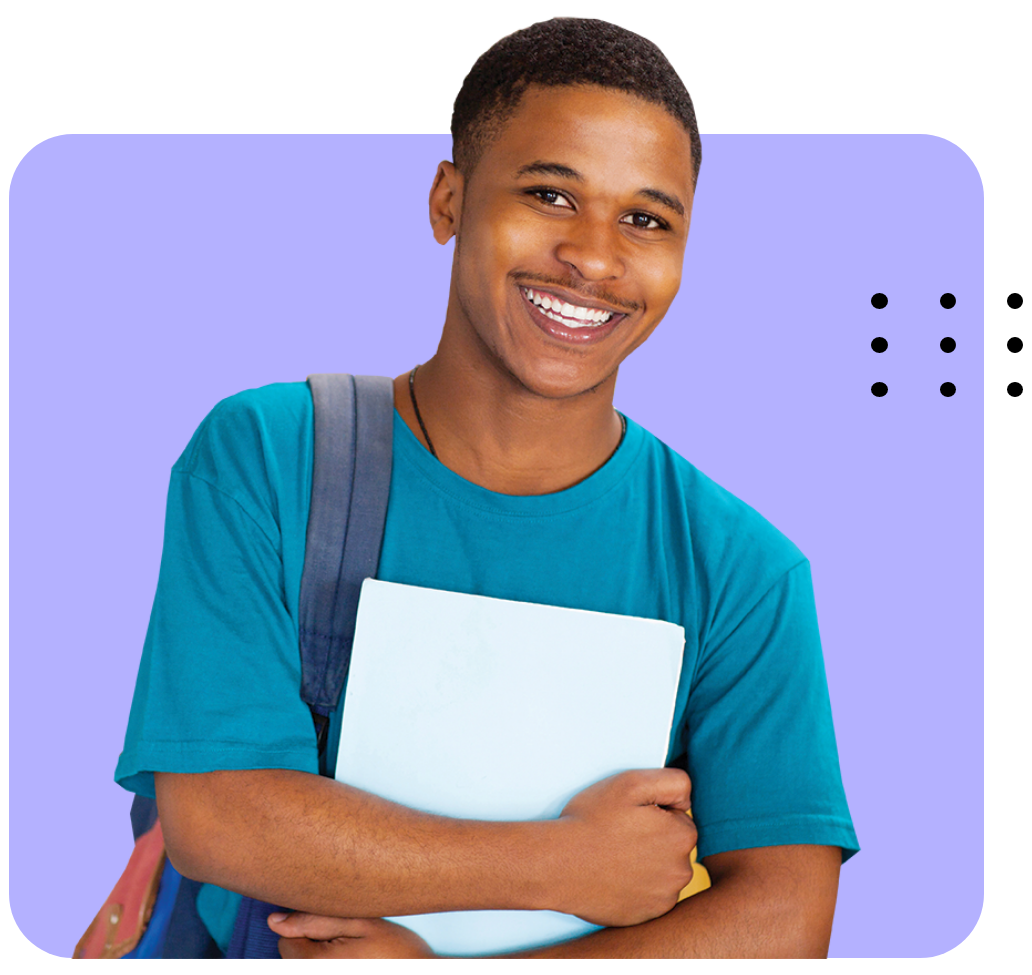
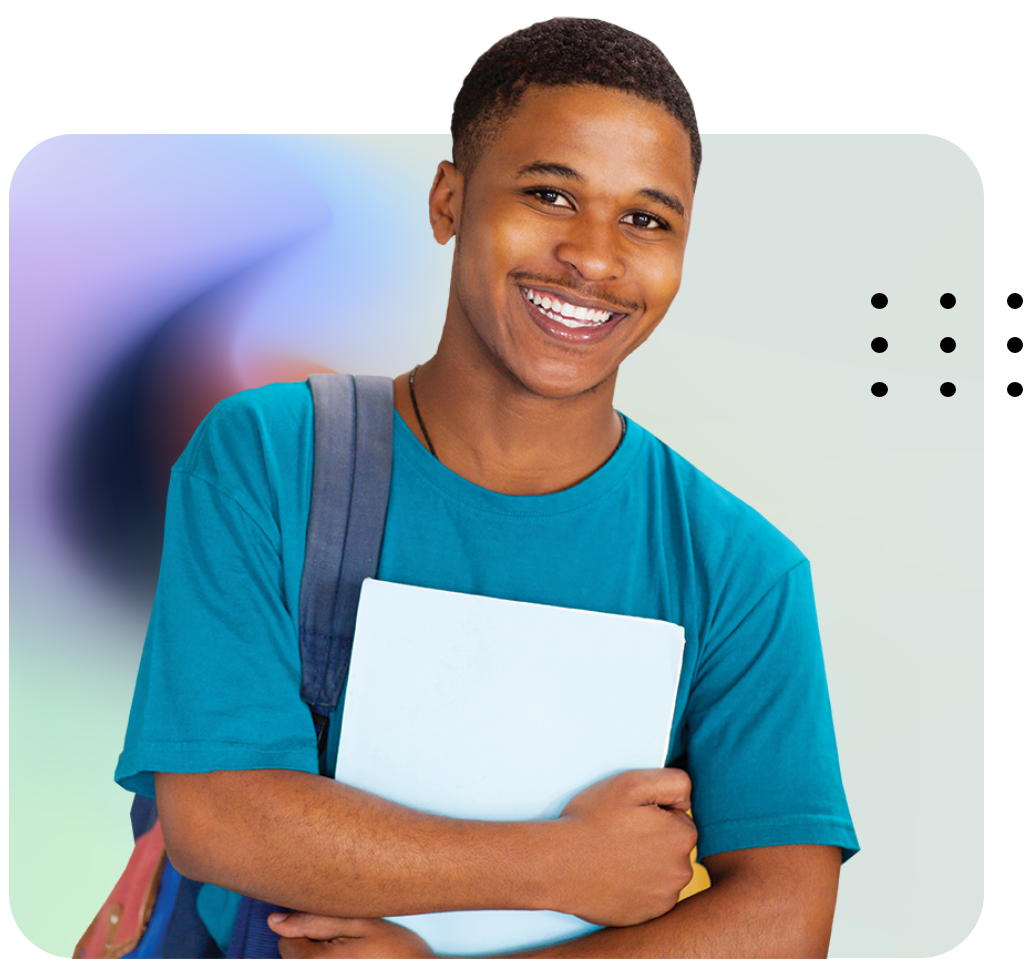
Props

diff --git a/src/TrendingCourses.js b/src/TrendingCourses.js
@@ -1,47 +1,25 @@
 import React from 'react';
 import './App.css';
+import CourseCard from './CourseCard';
 import editImage from './video-editing.jpg';
-
-
+import anotherImage from './outerspace.png'; // Let's say you have another image for demonstration purposes.
 
 const TrendingCourses = () => {
   return (
-    <div class="trending-section" style={{textAlign: 'center', borderRadius:20, paddingTop: 60, paddingLeft: 60, paddingRight: 60, paddingBottom: 60}}>
-        <h1 className="header" style={{textAlign: 'center',paddingBottom: 20, fontWeight:'600', fontSize: '18px', color:'#635bff' }}  >TRENDING</h1>
+    <div className="trending-section" style={{ textAlign: 'center', borderRadius: 20, padding: 60 }}>
+      <h1 className="header" style={{ textAlign: 'center', paddingBottom: 20, fontWeight: '600', fontSize: '18px', color: '#635bff' }}>TRENDING</h1>
+      
       <div className="header-container">
-        <h1 className="header" style={{paddingBottom: 20, paddingLeft: 100, paddingRight: 100, textAlign: 'center', fontWeight:'600', fontSize: '40px', color: 'black'}}  >Meet the crew of people who create with passion and love for modern trends.</h1>
+        <h1 className="header" style={{ paddingBottom: 20, paddingLeft: 100, paddingRight: 100, textAlign: 'center', fontWeight: '600', fontSize: '40px', color: 'black' }}>Meet the crew of people who create with passion and love for modern trends.</h1>
       </div>
 
       <div className="card-container-trending">
-        <div className="card">
-        <img class="course-img" src={editImage}></img>
-        <div style={{padding: '20px', textAlign: 'left'}}>
-        <h4 style={{fontSize: 30, fontWeight:600, margin:0, paddingBottom:30}}>Product Design</h4>
-
-        <h5 style={{paddingTop: '10px', paddingBottom: '20px', fontWeight:600, color:'#635bff', margin:0, fontSize:20 }}>Text here →</h5>
-
-        </div>
-        </div>
-        <div className="card">
-        <img class="course-img" src={editImage}></img>
-        <div style={{padding: '20px', textAlign: 'left'}}>
-        <h4 style={{fontWeight:600, margin:0, paddingBottom:30}}>Computer Science</h4>
-        
-        <h5 style={{paddingTop: '10px', paddingBottom: '20px', fontWeight:600, color:'#635bff', margin:0, fontSize:20 }}>Text here →</h5>
-
-        </div>
-        </div>
-        <div className="card">
-        <img class="course-img" src={editImage}></img>
-        <div style={{padding: '20px', textAlign: 'left'}}>
-        <h4 style={{fontWeight:600, margin:0, paddingBottom:30}}>Product Design</h4>
-        
-        <h5 style={{paddingTop: '10px', paddingBottom: '20px', fontWeight:600, color:'#635bff', margin:0, fontSize:20 }}>Text here →</h5>
-
-        </div>
-        </div>
+        <CourseCard title="Product Design" description="Text here" image={editImage} />
+        <CourseCard title="Computer Science" description="Text here" image={anotherImage} />
+        <CourseCard title="Product Design" description="Text here" image={editImage} />
       </div>
-      <button className="button-big-s" style={{marginTop: 50}}>View More Courses →</button>
+
+      <button className="button-big-s" style={{ marginTop: 50 }}>View More Courses →</button>
     </div>
   );
 };

diff --git a/src/Header.js b/src/Header.js
@@ -1,24 +1,28 @@
 import React from 'react';
 import './App.css';
+import Button from './Button';
+import Cards from './Cards';
 
 function ContentComponent() {
     return (
         <div className="content-container">
             <div className="text-button-container">
-            <button className="button-f" style={{border: 2, color: 'black'}}>Button 2</button>
-                <h1 style={{marginBottom:0, fontSize:60}}>Comprehensive <span style={{color: 'rgb(99, 91, 255)'}}>Online Platform</span> For Learning</h1>
-                <p class="body" style={{color:'#425466', marginTop:30, marginBottom: 30, fontSize:18, lineHeight: 1.5}}>Lorem Ipsum is simply dummy text of the printing and typesetting industry. Lorem Ipsum is simply dummy text of the printing and typesetting industry.</p>
-                <button className="button-big" style={{marginRight: 20}}>Button 2</button>
-                <button className="button-big-s">Button 2</button>
-                <div className="button-container">
-                </div>
+                <h1 className="header">BENIFITS</h1>
+                <h1>Comprehensive <span>Online Platform</span> For Learning</h1>
+                <p className="body">Lorem Ipsum is simply dummy text...</p>
+                <Button variant="big" text="Button 1" link="/path1" />
+                <Button variant="big-s" text="Button 2" link="/path2" />
             </div>
+            
             <div className="card-container">
-                <div style={{backgroundColor: 'rgb(99, 91, 255)'}} className="card1"><div class="button">Card 1</div>
-                <h2 style={{fontWeight: '600', paddingTop: 30, color:'white'}}>30k Students</h2>
-                </div>
-                <div style={{backgroundColor: 'black', color: 'white'}} className="card2"><div class="button2">Card 2</div>
-                <h2 style={{fontWeight: '600', paddingTop: 30}}>120+ Courses</h2></div>
+                <Cards bgColor="rgb(99, 91, 255)" textColor="white" fontSize={"20px"}>
+                    <div className="button">Card 1</div>
+                    <h2>30k Students</h2>
+                </Cards>
+                <Cards bgColor="black" textColor="white" fontSize={"20px"}>
+                    <div className="button2">Card 2</div>
+                    <h2>120+ Courses</h2>
+                </Cards>
             </div>
         </div>
     );

diff --git a/src/App.css b/src/App.css
@@ -1,10 +1,13 @@
 @import url('https://fonts.cdnfonts.com/css/sf-pro-display');
 
+@import url('https://fonts.googleapis.com/css2?family=Manrope:wght@200;300;400;500;600;700;800&family=Plus+Jakarta+Sans:ital,wght@0,400;0,500;0,600;0,700;1,400&display=swap');
+
 body {
   margin: auto;
   max-width: 1200px;
   background-color:white;
-  font-family: 'SF Pro Display', sans-serif;
+  font-family: 'Manrope', sans-serif;
+font-family: 'Plus Jakarta Sans', sans-serif;
   /*font-family: 'Plus Jakarta Sans', sans-serif;*/                                               
   color: black;
 }
@@ -299,6 +302,24 @@ body {
   color: #635bff;
 }
 
+.button-big-b {
+  padding: 15px;
+  border: 2px solid #000000;
+  background-color: #000000;
+  color: white;
+  font-size: 16px;
+  font-family: 'SF Pro Display', sans-serif;  
+  border-radius: 10px;
+  font-weight: 600;
+  transition: background-color 0.3s ease, color 0.3s ease; /* Soft transition */
+}
+
+.button-big-b:hover {
+  color: #ffffff;
+  border: 2px solid #ffffff;
+  background-color: #ffffff00;
+}
+
 
 .button-f:hover {
   background-color: black; /* Change to whatever color you want on hover */
@@ -336,7 +357,10 @@ body {
 }
 
 .header {
-  margin: 0;
+  text-Align: 'left';
+  font-Weight: '900';
+  font-Size: '15px';
+  color: '#635bff';
 }
 
 .view-more-button {
@@ -361,8 +385,24 @@ body {
 }
 
 .body {
-  margin-right: 200px;
+  font-Weight: 600;
+  color: '#425466';
+  margin-Top: 30;
+  margin-Bottom: 30;
+  font-Size: 15;
+  line-Height: 1.5;
 }
+
+.section {
+  margin-top: 60px;
+  margin-bottom: 80px;
+}
+
+.divider {
+  border-Top: '0.5px solid #D3D3D3';
+  margin-Bottom: '20px';
+}
+
 
 .card {
   border: 5px solid white;
@@ -394,6 +434,23 @@ body {
   text-align: center;
   padding: 10px;
 }
+
+.footer-container {
+  background-color: #f9f9f9;
+  padding: 20px;
+  border-radius: 30px;
+  display: flex;
+  justify-content: space-between;
+}
+
+.footer-section {
+  flex: 1; /* Divides the space equally among the three sections */
+  padding: 10px;
+  text-align: center;
+}
+
+/* Add any other specific styles for individual sections if needed */
+
 
 
 

diff --git a/src/App.js b/src/App.js
@@ -1,37 +1,37 @@
-import logo from './logo.svg';
+import React from 'react';
 import './App.css';
 import Home from './Home';
 import ContentComponent from './Header';
 import CourseCategories from './Filter';
 import TrendingCourses from './TrendingCourses';
 import Benfits from './Benifits';
-import Benifits from './Benifits';
 import TextNearTop from './Card';
 import CourseImage from './CourseImage';
+import Footer from './Footer';
+import Pros from './Pros';
 
+function Section({ children }) {
+  return (
+    <div className="section">
+      {children}
+    </div>
+  );
+}
 
 function App() {
   return (
     <div className="App">
-      <Home/>
-      <div style={{marginBottom: 60}}>
-      <ContentComponent/>
-      </div>
-      <TextNearTop />
-      <div style={{marginTop: 60, marginBottom: 80}}>
-      <CourseCategories/>
-      </div>
-      <div style={{marginBottom: 65}}>
-      <TrendingCourses/>
-      </div>
-      <div style={{marginTop: 60}}>
-       <CourseImage/>
-      </div>
-
-      <div style={{marginTop: 60}}>
-
+      <Section><Home/></Section>
+      <Section><ContentComponent/></Section>
+      <Section><TextNearTop /></Section>
       
-      </div>
+      <hr className="divider" />
+      
+      <Section><Pros/></Section>
+      <Section><CourseCategories/></Section>
+      <Section><TrendingCourses/></Section>
+      <Section><CourseImage/></Section>
+      <Section><Footer/></Section>
     </div>
   );
 }

diff --git a/src/Pros.js b/src/Pros.js
@@ -1,7 +1,7 @@
 import React from 'react';
-import backgroundImage from './woman-happy.png';
+import backgroundImage from './collage.png';
 
-const TextNearTop = () => {
+const Pros = () => {
     return (
         <div style={{ 
             
@@ -12,6 +12,13 @@ const TextNearTop = () => {
             backgroundColor: 'white', 
             textAlign: 'left'
         }}>
+
+<div className="column-one" style={{marginLeft: 320, marginRight: 320}}>
+                    <h1 className="header" style={{textAlign: 'center', paddingBottom: 20, fontWeight:'900', fontSize: '15px', color:'#635bff' }}  >BENIFITS</h1>
+                    <h1 className="header" style={{textAlign: 'center',fontWeight:'900', fontSize: '32px'}}  >The currently involved users who are creating the application.</h1>
+                    <p style={{ textAlign: 'center', color:'#425466', fontWeight: 600, marginTop:30, marginBottom: 30, fontSize:15, lineHeight: 1.5}}>Lorem Ipsum is simply dummy text of the printing and typesetting industry. Lorem Ipsum is simply dummy text of the printing</p>
+                </div>
+
             <div className="two-sections" style={{display:'flex', alignItems: 'center', justifyContent:'space-between', justifyContent: 'space-around'}}>
                 
 
@@ -30,4 +37,4 @@ const TextNearTop = () => {
     );
 }
 
-export default TextNearTop;
+export default Pros;

diff --git a/src/Filter.js b/src/Filter.js
@@ -6,8 +6,8 @@ const CourseCategories = () => {
     <>
     <div class="filter-wrapper" style={{backgroundColor: 'white', borderRadius:50 }}>
     <h1 className="header" style={{paddingBottom: 20, fontWeight:'600', fontSize: '18px', color:'#635bff' }}  >• Benifits</h1>
-      <h1 className="header" style={{fontWeight:'600', fontSize: '50px'}}>Courses Categories</h1>
-      <p class="body" style={{color:'#425466', marginTop:30, marginBottom: 30, fontSize:18, lineHeight: 1.5}}>Lorem Ipsum is simply dummy text of the printing and typesetting industry. Lorem Ipsum is simply dummy text of the printing and typesetting industry.</p>
+      <h1 className="header" style={{fontWeight:'900', fontSize: '50px'}}>Courses Categories</h1>
+      <p class="body" style={{fontWeight: 600, color:'#425466', marginTop:30, marginBottom: 30, fontSize:15, lineHeight: 1.5}}>Lorem Ipsum is simply dummy text of the printing and typesetting industry. Lorem Ipsum is simply dummy text of the printing and typesetting industry.</p>
       <hr className="line" />
       <div className="button-container-filter">
         <button style={{marginRight: 20}} className="button-big">Category 1</button>

diff --git a/src/CourseImage.js b/src/CourseImage.js
@@ -21,6 +21,7 @@ const CourseImage = () => {
                 <div className="column-one">
                     <h1 className="header" style={{paddingBottom: 20, fontWeight:'600', fontSize: '18px', color:'white' }}  >• Benifits</h1>
                     <h1 className="body" style={{color: 'white', fontWeight:'800', fontSize: '50px'}}>Software with future design technology introductions and experience.</h1>
+                    <button className="button-big-b">Button 2</button>
                 </div>
 
                 <div className="column-two" style={{justifyContent:'flex-end', display: 'flex'}}>

diff --git a/src/Footer.js b/src/Footer.js
@@ -1,0 +1,23 @@
+import React from 'react';
+import './App';
+
+const Footer = () => {
+  return (
+    <div className="footer-container">
+      <div className="footer-section">
+        <p>A modern approach to the user interface</p>
+        {/* Add more content as needed */}
+      </div>
+      <div className="footer-section">
+        <p>Section 2 content</p>
+        {/* Add more content as needed */}
+      </div>
+      <div className="footer-section">
+        <p>Section 3 content</p>
+        {/* Add more content as needed */}
+      </div>
+    </div>
+  );
+};
+
+export default Footer;

diff --git a/src/CourseCard.js b/src/CourseCard.js
@@ -1,0 +1,16 @@
+// CourseCard.js
+import React from 'react';
+
+const CourseCard = ({ title, description, image }) => {
+  return (
+    <div className="card">
+      <img className="course-img" src={image} alt={title} />
+      <div style={{ padding: '20px', textAlign: 'left' }}>
+        <h4 style={{ fontSize: 30, fontWeight: 600, margin: 0, paddingBottom: 30 }}>{title}</h4>
+        <h5 style={{ paddingTop: '10px', paddingBottom: '20px', fontWeight: 600, color: '#635bff', margin: 0, fontSize: 20 }}>{description} →</h5>
+      </div>
+    </div>
+  );
+};
+
+export default CourseCard;

diff --git a/src/Button.js b/src/Button.js
@@ -1,0 +1,21 @@
+// Button.js
+import React from 'react';
+import './App.css';
+
+function Button({ text, variant, link, style }) {
+    let className = 'button';
+
+    if (variant === 'big') {
+        className = 'button-big';
+    } else if (variant === 'big-s') {
+        className = 'button-big-s';
+    }
+
+    return (
+        <a href={link} className={className} style={style}>
+            {text}
+        </a>
+    );
+}
+
+export default Button;

diff --git a/src/Cards.js b/src/Cards.js
@@ -1,0 +1,11 @@
+import React from 'react';
+
+function Card({ bgColor, textColor, fontSize, children }) {
+    return (
+        <div style={{ backgroundColor: bgColor, color: textColor, fontSize: fontSize }} className="card">
+            {children}
+        </div>
+    );
+}
+
+export default Card;
